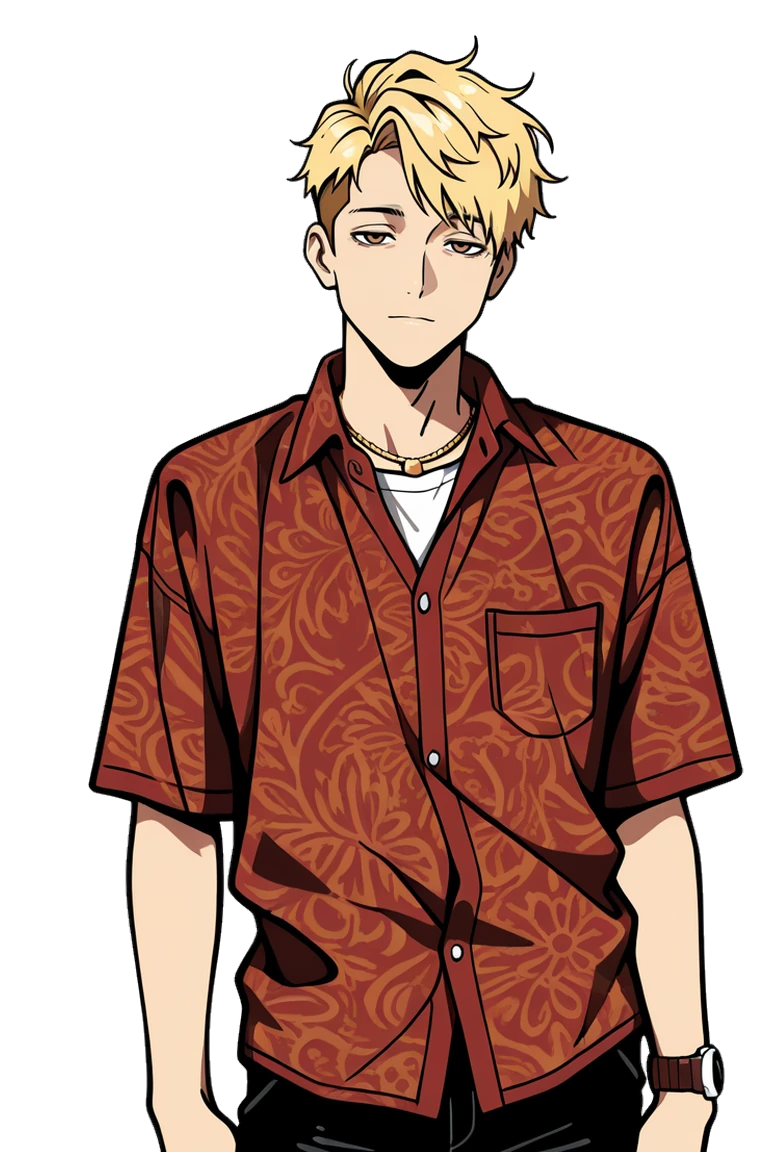
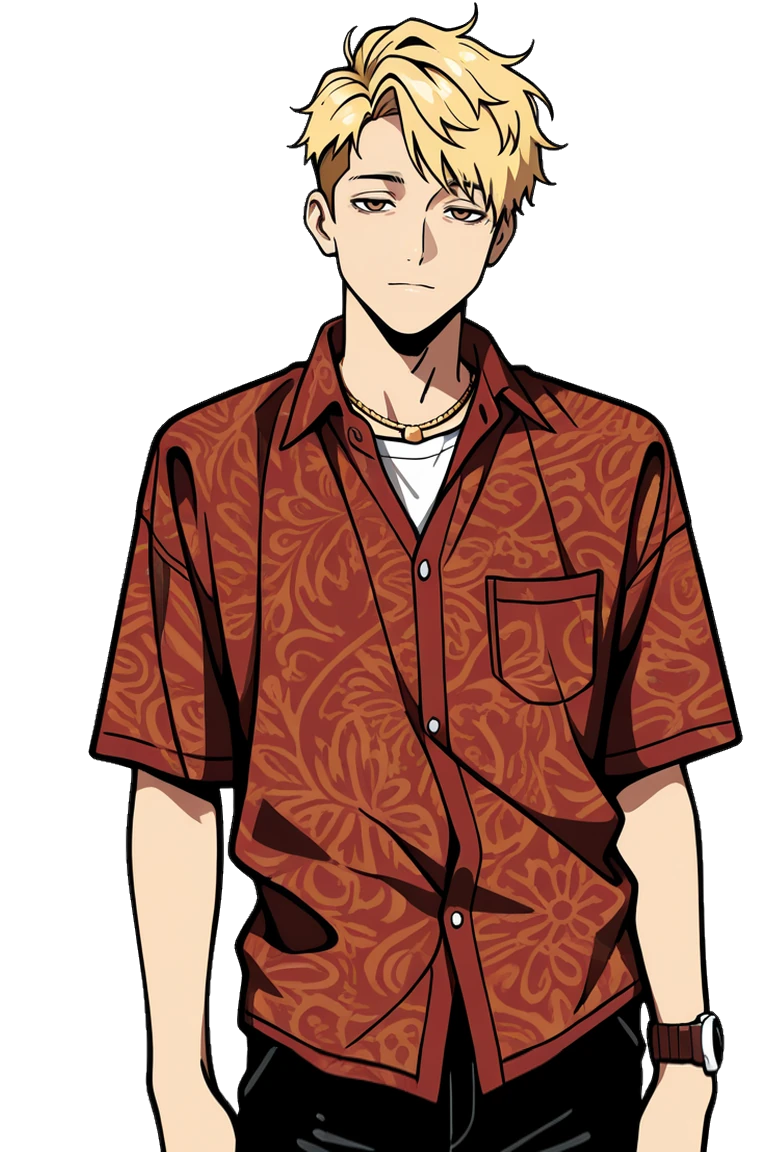
名前入力画面で友人役が男性だと明示し、友人の立ち絵を顎基準で置き直す
名前入力画面：役が男女に分かれることをリード文に出し、ラベルとヒントに
「友人役（男性）」「30歳の男性キャラクター」を明記した。収録の受け渡し画面で使う
ROLE_LABEL にも性別を足した（作中の話者名 SPEAKER_LABEL は変えていない）。

立ち絵：友人は髪のボリュームが彼女より33px多く、頭頂でそろえると顔がそのぶん
下がって背が低く見えていた。顔幅は142px対144pxでほぼ同じなので拡大縮小はせず、
顎の高さが彼女とそろう位置（頭頂y=2）まで上へ移動した。下に空く33pxは裾の帯を
引き伸ばして埋めてある。

diff --git a/index.html b/index.html
@@ -24,11 +24,11 @@
   <section id="screen-title" class="screen hidden">
     <div class="panel">
       <h1 class="title">彼が席を外すたびに</h1>
-      <p class="lead">2人で1台を使って遊ぶノベルゲームです。<br>はじめに、2人ぶんの声を録音します。</p>
+      <p class="lead">2人で1台を使って遊ぶノベルゲームです。<br><strong>友人役（男性）</strong>と<strong>彼女役（女性）</strong>に分かれて、はじめに2人ぶんの声を録音します。</p>
       <div class="field">
-        <label for="input-name">友人役の方の名前</label>
+        <label for="input-name">友人役（男性）を担当する方の名前</label>
         <input id="input-name" type="text" maxlength="8" autocomplete="off" placeholder="例：ケンタ">
-        <p class="hint">作中で彼女役が呼びかける名前になります。<strong>録音を始めると変更できません。</strong></p>
+        <p class="hint">友人役は<strong>30歳の男性キャラクター</strong>（彼女もちの旧友）です。ここで入れた名前で、作中の彼女役が呼びかけます。<strong>録音を始めると変更できません。</strong></p>
         <p id="name-error" class="error hidden"></p>
       </div>
       <button id="btn-to-mic" class="primary">録音にすすむ</button>

diff --git a/sw.js b/sw.js
@@ -9,7 +9,7 @@
 // BGMまで install で待つと初回の「準備中」が体感に出るため分けている。
 // 取得前にBGMが要求された場合は fetch ハンドラがネットワークから取ってキャッシュする。
 
-const CACHE_VERSION = 'kare-v6';
+const CACHE_VERSION = 'kare-v7';
 
 // アプリシェル＋データ＋画像
 const CRITICAL = [

diff --git a/js/config.js b/js/config.js
@@ -68,8 +68,8 @@ export const CONFIG = {
 };
 
 export const ROLE_LABEL = {
-  girlfriend: '彼女役',
-  friend: '友人役',
+  girlfriend: '彼女役（女性）',
+  friend: '友人役（男性）',
 };
 
 export const SPEAKER_LABEL = {

diff --git a/docs/立ち絵生成手順_友人.md b/docs/立ち絵生成手順_友人.md
@@ -236,6 +236,15 @@ cropped, head out of frame, from behind
 > 1.05倍は「頭の位置を彼女とそろえたまま人物だけ大きくする」処理なので、頭も5%大きくなる。
 > 並べてみて頭が大きく見えるようなら `--scale 1.0` で出し直す。
 
+### 頭頂でそろえると背が低く見えることがある
+
+`--scale` の基準は**頭頂**なので、髪が逆立っているキャラだと、その髪のぶんだけ顔が下がる。
+友人は髪のボリュームが彼女より33px多く、頭頂をそろえると顔が33px低くなって「背が低い」印象になった。
+
+顔の大きさ自体を比べるときは、髪型に左右されない**顔幅**で見ること（友人142px・彼女144pxでほぼ同じだった）。
+顔幅が同じなら拡大縮小はせず、**顎の高さがそろう位置まで上へずらす**。下に空くぶんは裾の帯を
+引き伸ばして埋める（縦方向の構造しかない帯なら、数十pxの引き伸ばしは見た目に出ない）。
+
 同じ処理を彼女の元画像に掛けると、出荷済みの `girlfriend/normal.png` と
 頭頂y・人物高・幅・中心x がすべて一致する。
 
